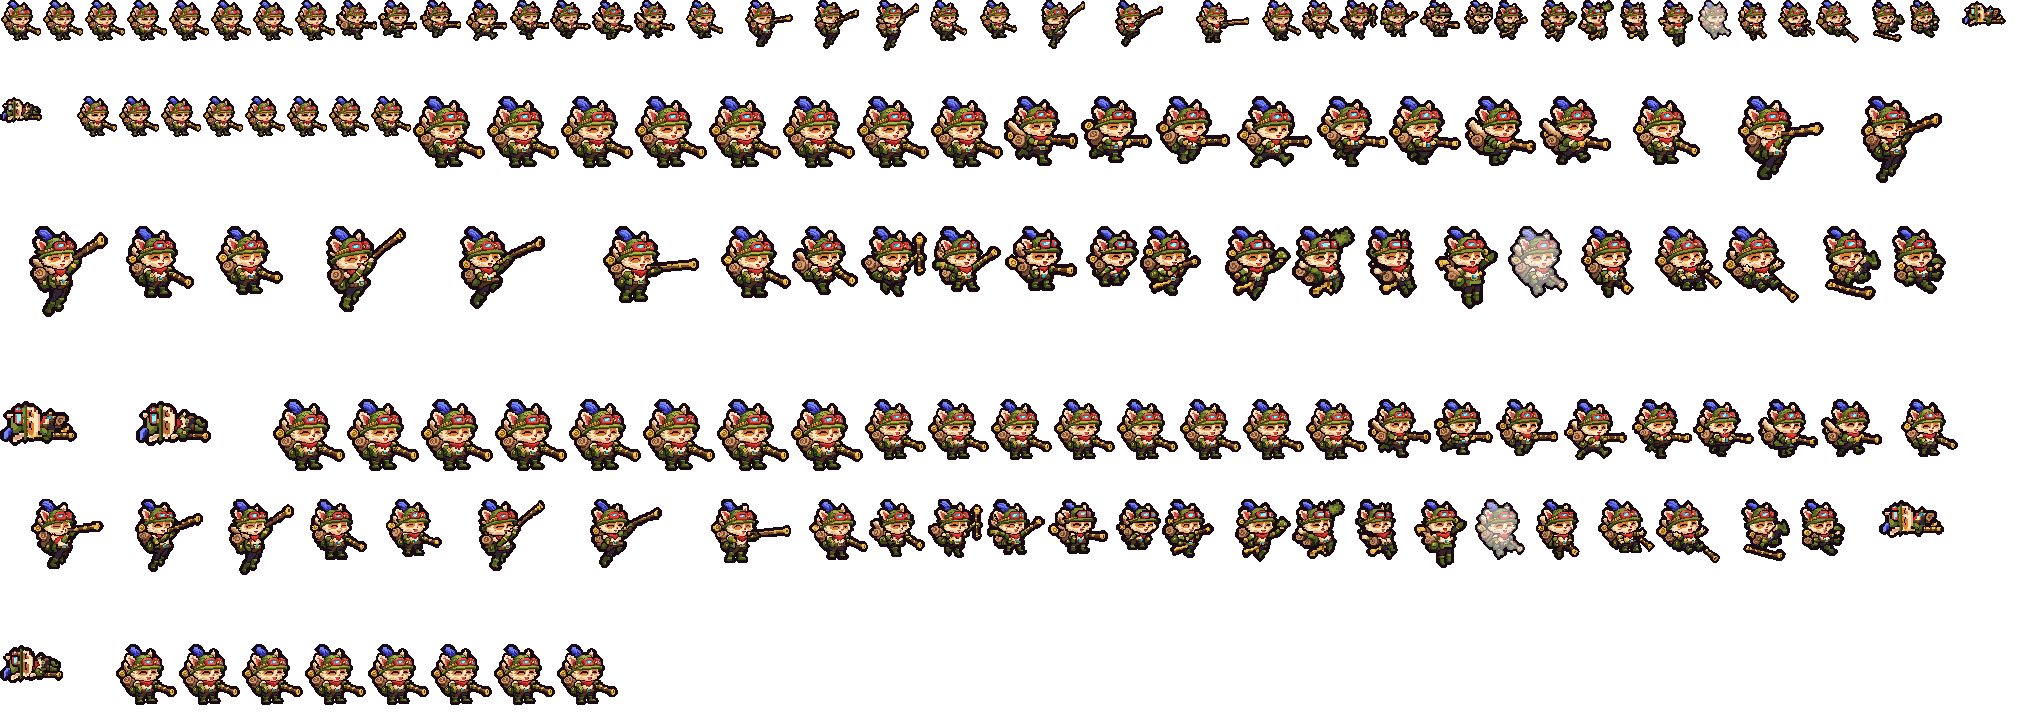
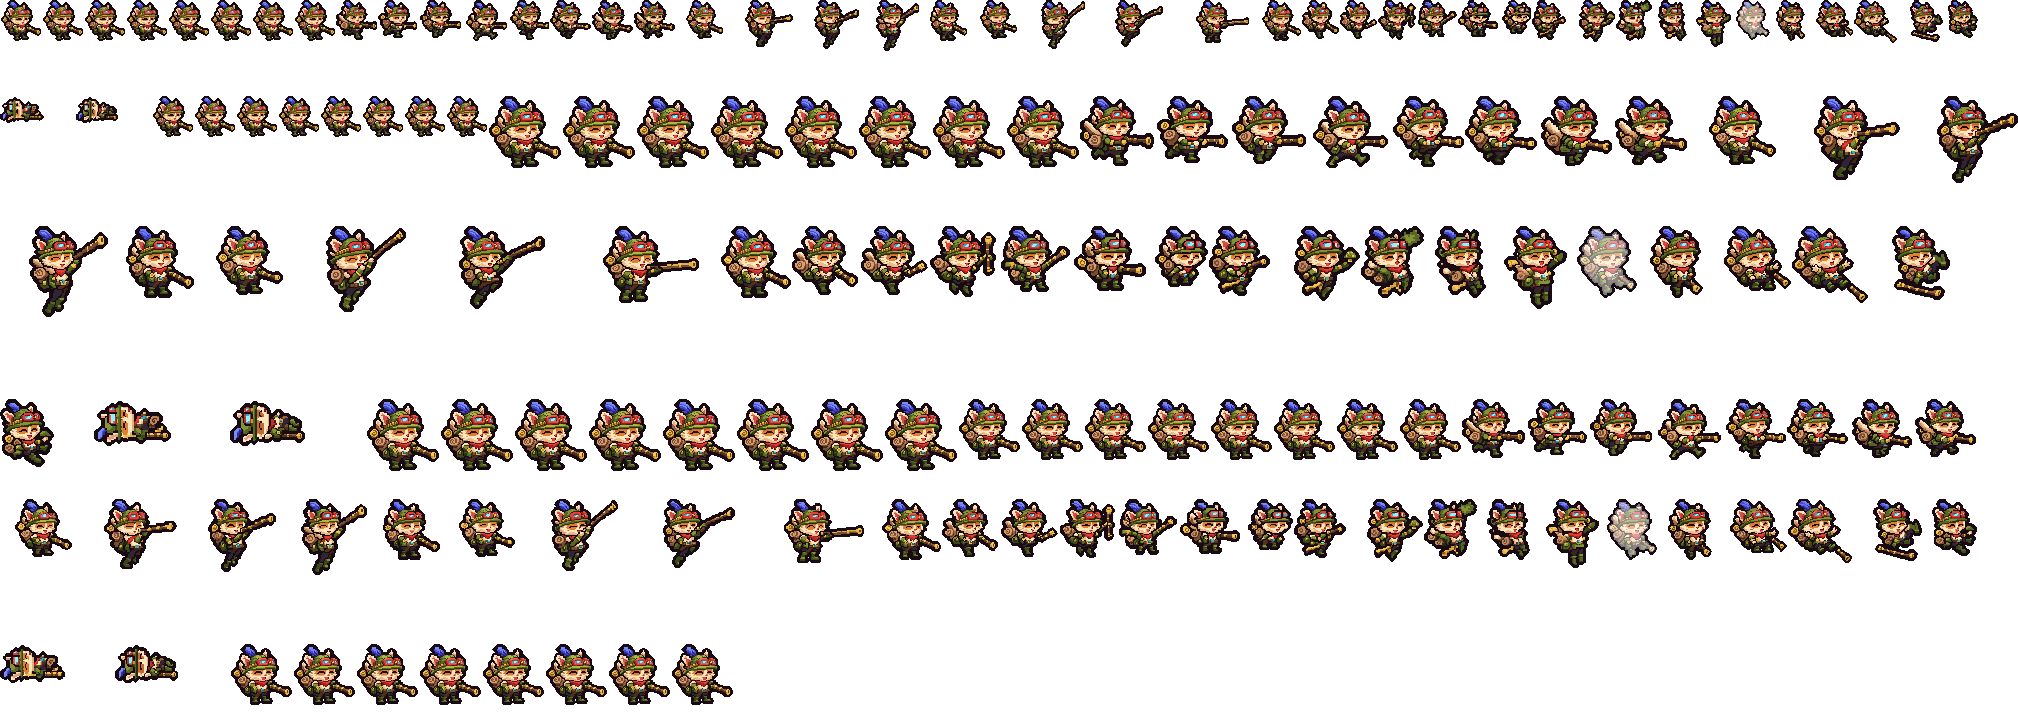
提莫动作补帧：W 小莫快跑 3 帧 -> 4 帧 4 姿势（起跳那张抬到跳起的一半、吹箭绕手往上转；中间帧用他自己的原帧做）
用户：「还有有的动画感觉只有一帧 不如oppi的地方都要补 参考联盟的动画」「动画你觉得少的地方就想办法补」。
对照表里 W 小莫快跑 3 帧 0.21 秒（每张 70 毫秒：蹲身起跳、跳到空中把吹箭竖起来、往下落时吹箭往前挥），起跳到空中那一下
一步跳上去 18 格。没有新画，没有交给 Codex，没有用图像模型（Codex 那套里 W 只画了这三张，没有漏用的原帧）。数法：「几帧，
其中几个不同的姿势」。

- tools/art/rig_teemo_hd.py（他的图集就是它写的：干净的树上 rig -> ppu_restyle -> ppu_hd -> ppu_one -> --one-ground ->
  hero_reels 六步逐文件复现）：INB 表 + gun_turned()：起跳那张（casts 的 skill2_1）整张往上 9 行，吹箭（GUN：从握着它的
  手到箭嘴，图自己格子里的多边形）交给 inbetween.vary 绕手（GRIP）顺时针 -60 度转（inbetween.spin，箭尾藏进手里），
  每帧核对头和吹箭以外逐格没变。动作：
  W：蹲身起跳 50 | 跳到一半、吹箭从朝右下转到朝右上 50 | 空中竖起吹箭 55（还是从 100 毫秒开始）| 往下落、吹箭往前挥 55
- 时间：总时长不变（210 = 技能数据的 12 tick；W 是加速，动作里没有出手判定），没有短于 50 毫秒的新帧；技能数据
  （tools/kit、.data_champion）没碰
- 大小：头和起跳那张其余部分逐格没变；吹箭转完还是 18-19 格长
- 普攻、Q、R、跑、受击、阵亡和待机（连同 hd_、lo_ 共 21 个标签）逐帧像素、时长都没变；tools/art/hero_reels.json 不用改
  （待机剪 R [0, 1, 2] 和普攻 [0]）。选人卡片还是普攻、Q、W，一圈还是 11280 毫秒：W 那段原来把超出卡顶的空中那张换成
  起跳那张，现在换成新的中间帧（它超出卡顶 0.07，在 0.25 以内）
- 图集和 fanim 重新生成：2037x728 -> 2018x728
- docs/heroes/league_teemo.md「开发记录」加一行

不满意的地方：只有这一张；210 毫秒最多放 4 张 50 毫秒以上的帧，空中竖起到往下挥那一下没有中间帧；转过的箭嘴金圈比原画
糊一点。

查过：hero_reels --check --hero teemo（0）；新旧图集逐帧对比（C:/t/anim_work/tools/compare_sheets.py）；ui_sheets（bp
302.9 / 768 MiB，他自己 1.22 -> 1.25）；league_viego_soul make_override 和 --check；gen_hero_docs --check；cargo test
--release -p hd_engine -p league_main -p league_viego_soul -p league_teemo_shrooms（48 + 41 + 26 + 11 全过）。每帧 3 倍、
转过的吹箭 6-8 倍看过；流水线在这次提交上重跑，文件不变。

还没做：版本号没动；league.dll 用 include_str 带着这张 fanim，要和图集一起重新编译安装；docs/preview 里他的旧帧预览
还是旧的；游戏里没看过（没装）。

diff --git a/tools/art/rig_teemo_hd.py b/tools/art/rig_teemo_hd.py
@@ -7,6 +7,9 @@ redraw of his old frame read onto it at the zoom its fit over the old frame Code
 The old frames that repeat another (pack_teemo_actions.SAME) take that drawing; idle_base is the design held still (the
 idle is hero_reels' reel of action snippets). The idle and the ban/pick card are cut from the actions by
 tools/art/hero_reels.py.
+The in-betweens (tools/art/inbetween.py; the user, 2026-11-14: 「还有有的动画感觉只有一帧 不如oppi的地方都要补 参考联盟的动画」,
+「动画你觉得少的地方就想办法补」): Move Quick gets a frame made from its own lean - lifted half way up the hop, the blowgun
+turned up about his grip (INB), everything else of the picture checked unchanged.
 
     python tools/art/rig_teemo_hd.py --review DIR     # every tag at 3x + GIFs
     python tools/art/rig_teemo_hd.py                  # orig strips + the 1x sheet
@@ -25,6 +28,7 @@ from scipy import ndimage
 HERE = os.path.dirname(os.path.abspath(__file__))
 sys.path.insert(0, HERE)
 import casts_teemo_hd as CA  # noqa: E402
+import inbetween as IB  # noqa: E402
 import pack_teemo_actions as PK  # noqa: E402
 import ppu_rig as R  # noqa: E402
 import rig_rengar_hd as RG  # noqa: E402
@@ -86,6 +90,29 @@ def pad_for(D, casts):
     return left, right, top, 6
 
 
+# The in-betweens (2026-11-14: Move Quick was three drawings at 70 ms each - the lean into the hop 9 rows up, the
+# blowgun held upright 27 rows up, the blowgun swung forward -, the take-off between the first two the biggest jump):
+# the lean lifted half way to the top of the hop with its blowgun (GUN, in the picture's own squares, from his grip to
+# the mouthpiece) turned about his grip (GRIP; inbetween.spin, the blowgun's end going in under his hand) from pointing
+# down-right half way to upright. INB: tag -> ([(picture, degrees the blowgun turns clockwise on screen, rows moved
+# down)], ms): 50 / 50 / 55 / 55, still 210 ms (12 ticks; the W is a buff, no hit inside it).
+VPAD = 30
+GUN = {"skill2_1": [[(45, 43), (50, 42), (64, 50), (64, 60), (54, 60), (44, 49)]]}
+GRIP = {"skill2_1": (46, 45)}
+INB = {"skill2": ([("skill2_1", 0, 0), ("skill2_1", -60, -9), ("skill2_2", 0, 0), ("skill2_3", 0, 0)],
+                  IB.spans((100, 2), (110, 2)))}
+
+
+def gun_turned(rig, casts, name, deg, dy):
+    """A cast on the grid `dy` rows lower, its blowgun turned `deg` (inbetween.vary: the rest checked unchanged)."""
+    d, x, y = casts[name]
+    if deg:
+        d = IB.vary(d, {"gun": GUN[name]}, tuple(int(v) for v in rig.D.outline),
+                    spins=[("gun", GRIP[name], deg, "under")], pad=VPAD, name=f"{name} blowgun {deg}")
+        x, y = x - VPAD, y - VPAD
+    return RG.on_grid(rig, d, x, y + dy)
+
+
 def frames(rig, casts):
     sheet = R.sheet_of(HERO)
     out = {}
@@ -95,6 +122,9 @@ def frames(rig, casts):
         ms = [m for _, m in sheet[tag]]
         if tag == "idle_base":
             fr = [RG.on_grid(rig, rig.D.d0, 0, 0) for _ in ms]             # (held still: the design)
+        elif tag in INB:
+            seq, ms = INB[tag]
+            fr = [gun_turned(rig, casts, n, deg, dy) for n, deg, dy in seq]
         else:
             fr = []
             for k in range(1, len(ms) + 1):

diff --git a/docs/heroes/league_teemo.md b/docs/heroes/league_teemo.md
@@ -90,6 +90,7 @@
 | 图标 | 官方技能图标（Q / W / R），64×64 |
 | 音频 | 从本地客户端提取的 10 条技能音效和 3 条中文语音（Q、W 借被动伪装的台词、R）。不提交到仓库，按下面的命令在本地生成 |
 | 修正（死后的蘑菇，0.296.0，2026-11-02） | 查[茂凯](league_maokai.md)树苗「死后无限音效」时一起查出来的：蘑菇每 15 tick 的画面链在 `boom`（踩爆后 30 tick）时放毒云的画面和声音、点 3 tick 的 `fire`，毒云区在 `fire` 时上毒、减速。正式游戏里死人的延时效果继续跑、标记冻住：蘑菇踩爆后半秒内他死掉，剩下的十几秒里每 15 tick 响一次爆炸声；死在 `fire` 那 3 tick 里，毒云每 2 tick 上一次毒。[`tools/fix/fix_teemo_dead.py`](../../tools/fix/fix_teemo_dead.py) 给 147 处 `boom` 和 3 处 `fire` 加上 `alive()`（找自己加 1 tick 的标记，死人找不到）。附加包 `league_teemo_shrooms` 用自己的蘑菇，不受影响；塞拉斯偷来的 R 用的是这一份 |
+| 动作补帧（2026-11-14） | 用户：「还有有的动画感觉只有一帧 不如oppi的地方都要补 参考联盟的动画」「动画你觉得少的地方就想办法补」。对照表里 W 小莫快跑只有 3 帧 0.21 秒（每张 70 毫秒：蹲身起跳、跳到空中把吹箭竖起来、往下落时吹箭往前挥），起跳到空中那一下一步跳上去 18 格。没有新画，也没交给 Codex：[`tools/art/inbetween.py`](../../tools/art/inbetween.py) 用已有的画做中间帧——起跳那张整张抬到跳起的一半（9 格），吹箭绕握着它的手往上转 60 度（RotSprite 的办法，任意角度），箭尾藏进手里；其余逐格不变（[`tools/art/rig_teemo_hd.py`](../../tools/art/rig_teemo_hd.py) 的 INB 表，每帧核对）。下面写的是「几帧，其中几个不同的姿势」。**W 小莫快跑** 3 帧（3 个姿势）→ 4 帧，其中 4 个：蹲身起跳 50 毫秒；跳到一半、吹箭从朝右下转到朝右上 50 毫秒；空中竖起吹箭 55 毫秒（从 100 毫秒开始）；往下落、吹箭往前挥 55 毫秒。总时长不变（210 毫秒；W 是加速，动作里没有出手判定），没有短于 50 毫秒的帧，技能数据没改；普攻、Q、R、跑、受击、阵亡逐帧没变。每帧 3 倍、转过的吹箭 6–8 倍看过，吹箭转完还是一样长。待机剪的还是 R 和普攻（`hero_reels.json` 不用改）；选人卡片还是普攻、Q、W（W 那段原来把超出卡顶的空中那张换成起跳那张，现在换成新的中间帧；一圈还是 11280 毫秒）。图集 2037×728 → 2018×728，选人格子用的那张 1.22 → 1.25 MiB。游戏里还没看过 |
 
 ```bash
 python tools/lol/extract_teemo.py --lol "D:\WeGameApps\lol" --vgmstream "<vgmstream-cli.exe 路径>"
